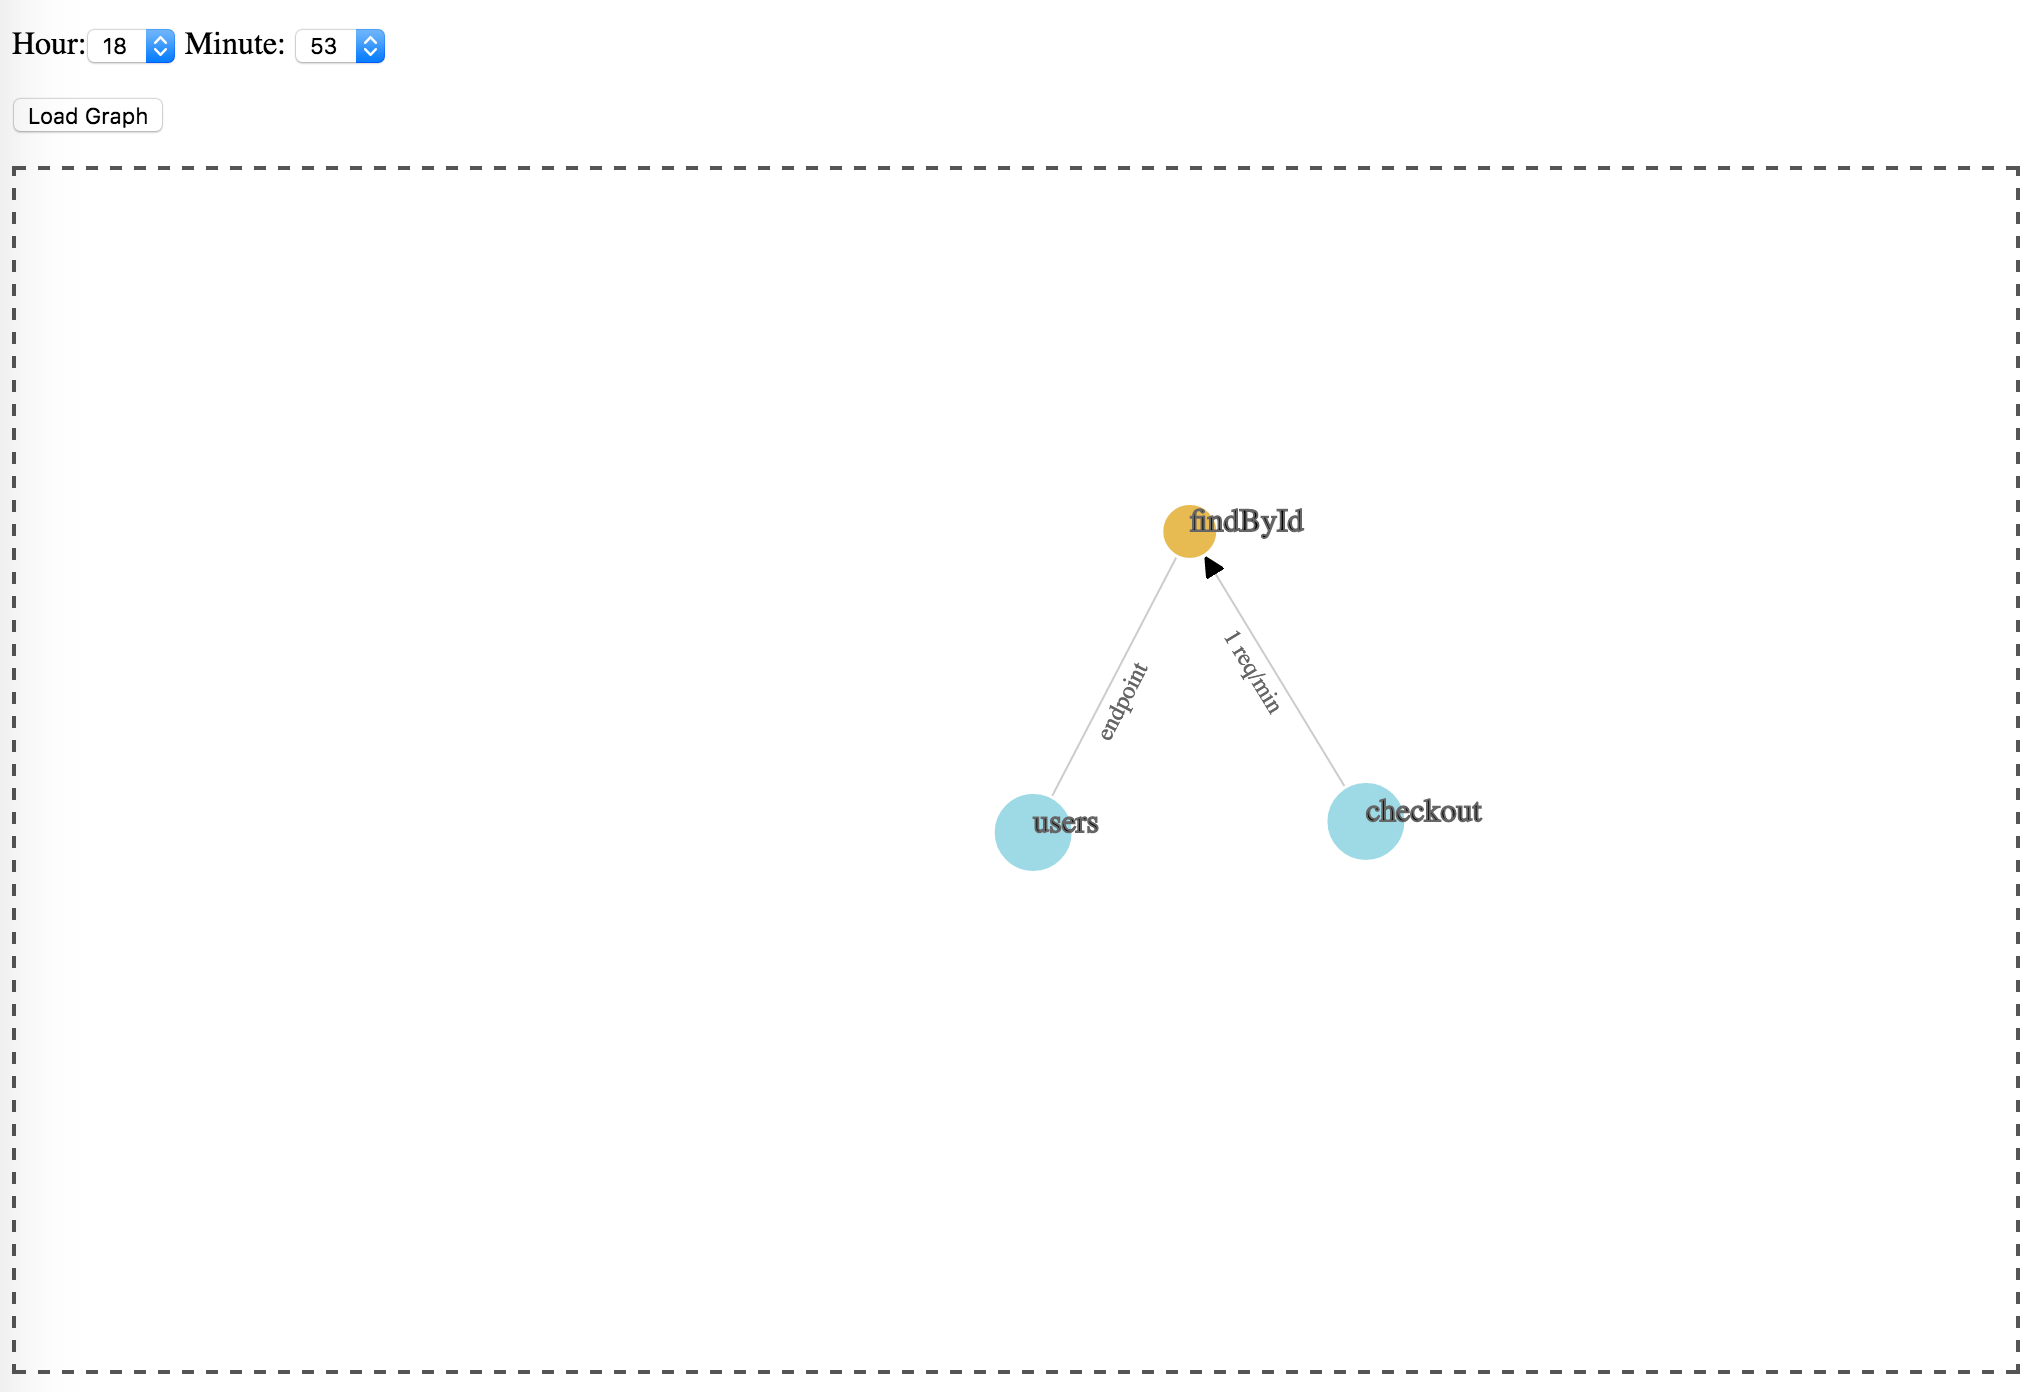
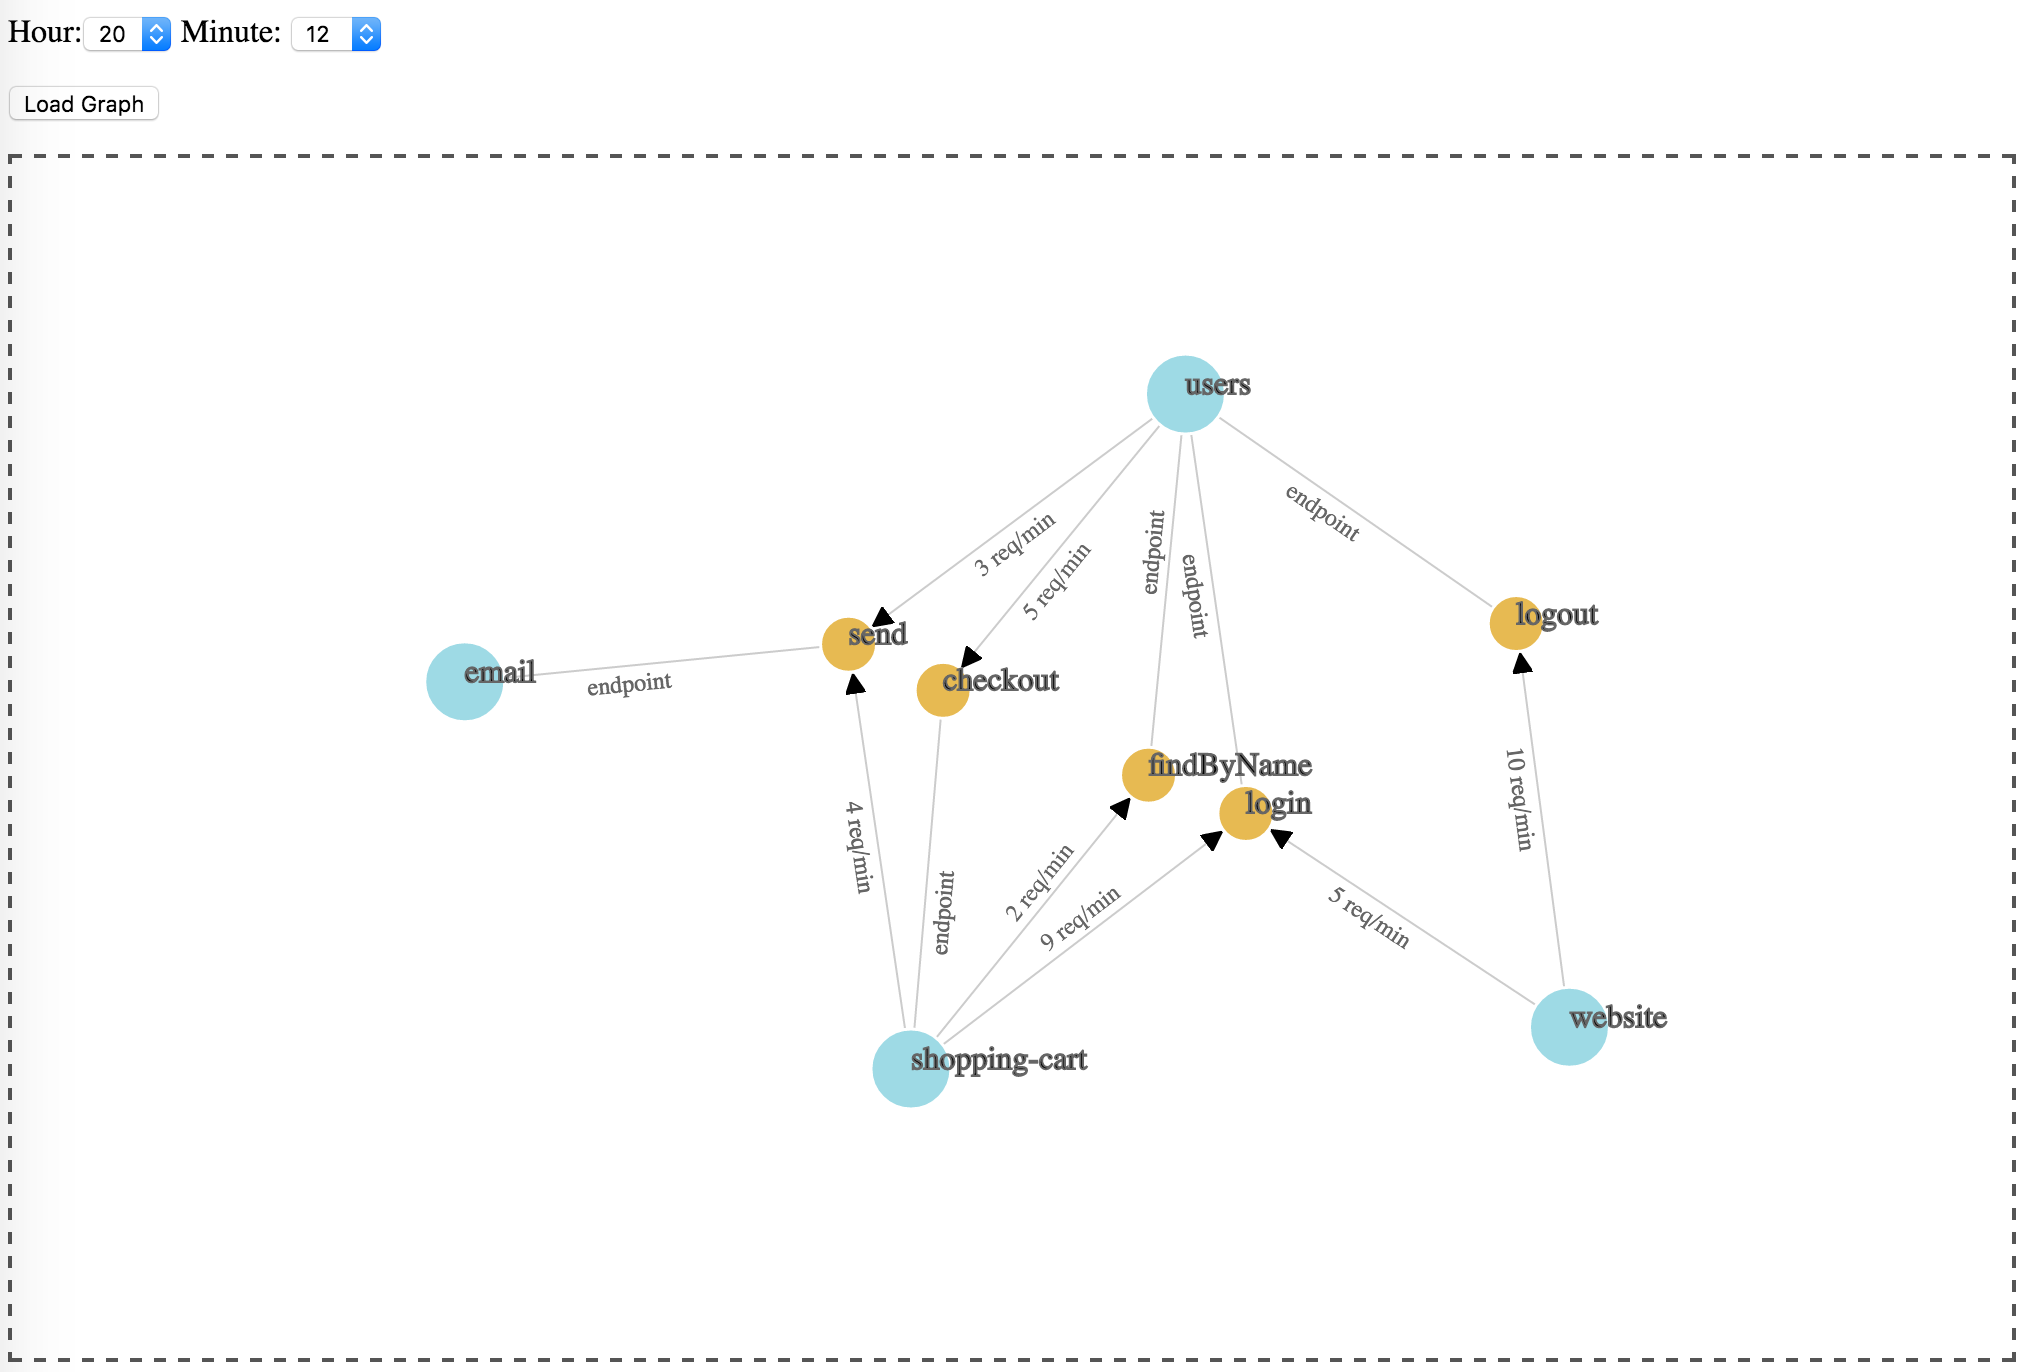
insert script to perform some requests

diff --git a/service-viewer/index.html b/service-viewer/index.html
@@ -80,7 +80,7 @@
            var width = 1100 - margin.left - margin.right,
                height = 600 - margin.top - margin.bottom;
 
-           var linkDistance = 170;
+           var linkDistance = 200;
            var color = d3.scale.category10();
 
            var force = d3.layout.force()
@@ -172,7 +172,7 @@
                                     .style("pointer-events", "none")
                                     .attr({'class':'linklabel',
                                            'id':function(d,i){return 'linklabel'+i},
-                                           'dx':70,
+                                           'dx':90,
                                            'dy':-5,
                                            'font-size':12,
                                            'fill':'#666'});

diff --git a/README.md b/README.md
@@ -48,6 +48,21 @@ $ sbt run
 ```
 
 
+#### Insert Dummy Data
+
+It requires *curl* command to run this script.
+Please, do not forget to run the service-stats through SBT before executing this script.
+
+
+Just run the script:
+
+```sh
+$ ./insert-dummy-data.sh
+```
+
+It will perform some HTTP post requests to http://localhost:8080, after that you can see the graph using the service-viewer project.
+
+
 #### How it works internally
 
 
